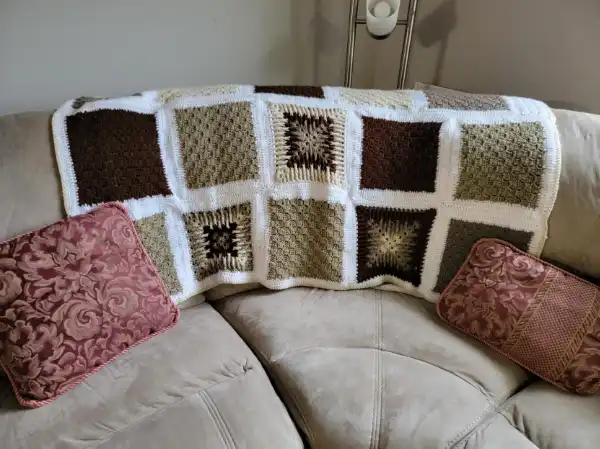
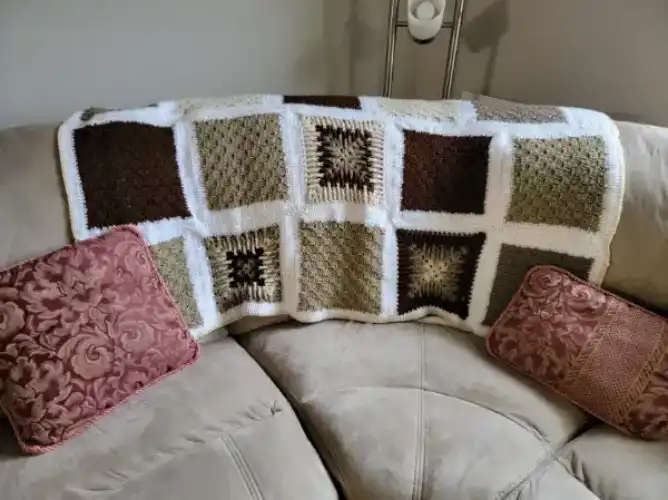
Updated Personal Website Project

diff --git a/project/styles/home-base.css b/project/styles/home-base.css
@@ -1,53 +1,92 @@
-body {
-    font-family: 'PT Sans', sans-serif;
-    margin: 0;
-    padding: 0;
-}
+@media screen and (max-width: 639px) {
+    body {
+        background-color: #D6D5B3;
+        font-family: 'oregano', 'georgia', 'serif';
+        font-size: 22px;
+        margin: 0;
+        padding: 0; 
+    }
 
-header {
-    display: flex;
-    flex-direction: column;
-    align-items: center;
-    padding: 1rem;
-    background-color: #8FA998;
-}
+    header {
+        display: flex;
+        flex-direction: column;
+        align-items: center;
+        padding: 1rem;
+        background-color: #8FA998;
+    }
+    
+    nav {
+        display: flex;
+        flex-direction: row;
+        align-items: center;
+        gap: 1rem;
+    }
+    
+    nav a {
+        text-decoration: none;
+        color: #4F345A;
+        padding: 1rem;
+        text-align: center;
+    }
+    
+    nav a:hover {
+        background-color: #4F345A;
+        color: #8FA998;
+        border-radius: 5px;
+    }
+    
+    .main-img {
+        text-align: center;
+        margin-bottom: 2rem;
+    }
 
-nav {
-    display: flex;
-    flex-direction: column;
-    align-items: center;
-    gap: 1rem;
-}
+    .main-img img {
+        width: 80%;
+        margin: 1rem 0;
+        transition: transform 0.3s;
+        border: 2px solid #4F345A;
+        border-radius: 10px;
+        border-width: 1rem;
+        box-shadow: 10px 10px 20px;
+    }
+    
+    .main-img img:hover {
+        transform: scale(1.05);
+    }
 
-nav a {
-    text-decoration: none;
-    color: #4F345A;
-    padding: 1rem;
-    text-align: center;
-}
+    .product-row {
+        display: flex; /* Arrange products in a row */
+        flex-direction: column;
+        justify-content: space-between; /* Space between products */
+        align-items: center; /* Align items vertically */
+        margin-bottom: 2rem; /* Space at the bottom */
+    }
 
-nav a:hover {
-    background-color: #4F345A;
-    color: #8FA998;
-    border-radius: 5px;
-}
+    .product {
+        text-align: center;
+    }
 
-.main-img img {
-    width: 100%;
-    margin: 1rem 0;
-    transition: transform 0.3s;
-}
+    .product img {
+        /* width: 100%; */
+        max-width: 400px;
+        transition: transform 0.3s; /* Smooth transition effect */
+        border: 2px solid #4F345A;
+        border-radius: 10px;
+        border-width: 1rem;
+        box-shadow: 10px 10px 20px;
+    }
 
-.main-img img:hover {
-    transform: scale(1.05);
-}
-
-footer {
-    background-color: #8FA998;
-    color: #060505;
-    padding: 1rem;
-    margin-top: 2rem;
-    text-align: center;
-    font-family: 'Oregano';
-    font-weight: 700;
+    .product img:hover {
+        transform: scale(1.05); /* Zoom-in effect on hover */
+    }
+    
+    footer {
+        background-color: #8FA998;
+        color: #060505;
+        padding: 1rem;
+        margin-top: 2rem;
+        text-align: center;
+        font-family: 'Oregano';
+        font-weight: 700;
+    }
 }

diff --git a/project/styles/home-large.css b/project/styles/home-large.css
@@ -9,6 +9,7 @@
     
     header {
         display: flex;
+        flex-direction: row;
         justify-content: space-between;
         align-items: center;
         padding: 1rem;
@@ -48,7 +49,7 @@
     nav a:hover {
         background-color: #4F345A;
         color: #8FA998;
-        border-radius: 20px;
+        border-radius: 10px;
     }
 
     .main-img {
@@ -57,14 +58,15 @@
     }
     
     .main-img img {
-        width: 100%;
-        max-width: 600px;
+        width: 80%;
+        /* max-width: 900px; */
+        max-height: 600px;
         margin: 1rem;
         transition: transform 0.3s;
         border: 2px solid #4F345A;
         border-radius: 10px;
-        border-width: 1.5rem;
-        box-shadow: 10px 10px 20px;
+        border-width: 1rem;
+        box-shadow: 10px 10px 30px;
     }
     
     .main-img img:hover {
@@ -73,7 +75,7 @@
     
     .product-row {
         display: flex; /* Arrange products in a row */
-        justify-content: space-around; /* Space between products */
+        justify-content: space-between; /* Space between products */
         align-items: center; /* Align items vertically */
         margin-bottom: 2rem; /* Space at the bottom */
     }
@@ -83,12 +85,12 @@
     }
 
     .product img {
-        width: 100%;
-        max-width: 300px;
+        /* width: 100%; */
+        max-width: 400px;
         transition: transform 0.3s; /* Smooth transition effect */
         border: 2px solid #4F345A;
         border-radius: 10px;
-        border-width: 1.5rem;
+        border-width: 1rem;
         box-shadow: 10px 10px 20px;
     }
 

diff --git a/project/lrscc-home.html b/project/lrscc-home.html
@@ -60,7 +60,7 @@
                 <h2>Misc.</h2>
         </div> -->
         <div class="main-img">
-            <img src="images/neutral-afgan.webp" alt="Neutral Afghan">
+            <img src="images/neutral-afgan1.webp" width="900" alt="Neutral Afghan">
         </div>
         <div class="product-row">
             <div class="product">
@@ -72,7 +72,7 @@
                 <h2>Blankets</h2>
             </div>
             <div class="product">
-                <img src="images/sock-snowmen1.webp" width="400" height="300" alt="Snowmen" aria-label="Misc.">
+                <img src="images/sock-snowmen1.webp" width="450" height="300" alt="Snowmen" aria-label="Misc.">
                 <h2>Misc.</h2>
             </div>
         </div>
